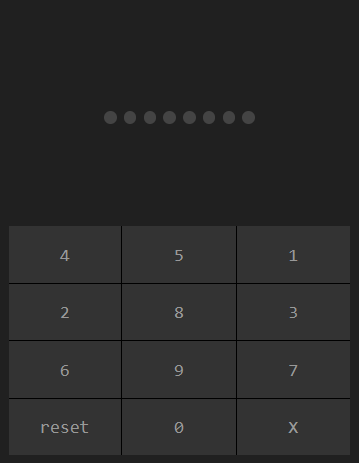
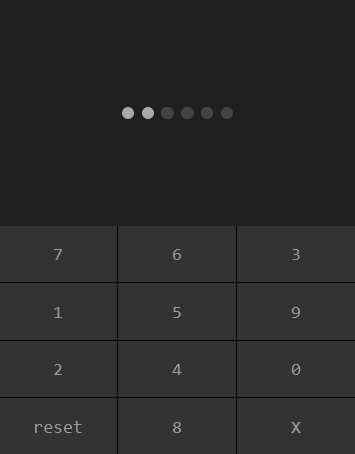
readme

diff --git a/index.html b/index.html
@@ -5,74 +5,75 @@
     <meta name="viewport" content="width=device-width, initial-scale=1, maximum-scale=1, user-scalable=no">
     <meta http-equiv="X-UA-Compatible" content="ie=edge">
     <title>Shuffle KEYPAD</title>
-    <link rel="stylesheet" href="style.css">
+    <link rel="stylesheet" href="./style.css">
 </head>
 <body>
-    <div class="keypad">
-        <div class="dots">
-            <div class="dbox"></div>
-        </div>
-        <div class="keys">
-            <div class="box"></div>
-        </div>
+
+<div class="keypad">
+    <div class="dots">
+        <div class="txt">PIN</div>
+        <div class="dbx"></div>
     </div>
-    <div class="test"> <button onclick="keypad.kset()">Shuffle</button> </div>
+    <div class="keys">
+        <div class="kbx"></div>
+    </div>
+</div>
+<div class="test"> <button onclick="keypad.kset()">Shuffle</button> </div>
 
-    <script>
-    const keypad = {
-        init:function(){
-            this.kset();
-        },
-        cnum: 0,
-        pnum: 6, /* 비번갯수 */
-        dset: function(n){ /* 점들 그리기 */
-            const dbox = document.querySelector(".dots");
-            let dot = '';
-            for(let d = 0; d < this.pnum; d++){
-                n > d ? ac = 'on' : ac = '';
-                dot += '<em class="dt '+ac+'"></em>';
-            }
-            dbox.innerHTML = dot;
-            if( this.cnum >= this.pnum){
-                this.cnum = this.pnum;
-                location.reload();
-            };
-            console.log(this.cnum);
-        },
-        kset: function(c){ /* 번호 그리기 */
-            const kbox = document.querySelector(".keys .box");
-            const norg = [0, 1, 2, 3, 4, 5, 6, 7, 8, 9];
-            const nums = [...norg];
-            const choc = e => nums.splice( Math.floor(Math.random() * nums.length) , 1); /* 랜덤 뽑기 */
-            let bts= '';
-            let bn = '';
-            let bx = '<button type="button" value="del" class="bt">X</button>';
-            let bc = '<button type="button" value="rst" class="bt">reset</button>';
-            for(let i of norg){
-                let pp = choc();
-                let bt = '<button type="button" value="' + pp + '" class="bt">' + pp + '</button>';
-                console.log(i, pp, nums);
-                i == 8 ? bn = bc : null;
-                i == 9 ? bn = bx : null;
-                bts += bt + bn;
-            }
-            kbox.innerHTML = bts;
-            this.dset(0);
-            this.cnum = 0;
-            document.querySelectorAll(".keys .bt").forEach( 
-                el => el.addEventListener("click", e => this.pset(el) )
-            );
-        },
-        pset: function(el){ /* 버튼클릭 */
-            el.value == 'del' ? this.cnum-- : this.cnum++ ;
-            el.value == 'rst' ? this.cnum = 0 : null ;
-            this.cnum < 0 ? this.cnum = 0 : null;
-            this.dset(this.cnum,el.value);
+<script>
+const keypad = {
+    init: function(){
+        this.kset();
+    },
+    cnum: 0,
+    pnum: 6, /* 비번갯수 */
+    dset: function(n){ /* 점들 그리기 */
+        const dbox = document.querySelector(".dots .dbx");
+        let dot = '';
+        for(let d = 0; d < this.pnum; d++){
+            n > d ? ac = 'on' : ac = '';
+            dot += '<em class="dt '+ac+'"></em>';
         }
-    }
-    keypad.init();
+        dbox.innerHTML = dot;
+        if( this.cnum >= this.pnum){
+            this.cnum = this.pnum;
+            this.pcom();
+        };
+        console.log(this.cnum);
+    },
+    kset: function(c){ /* 번호 그리기 */
+        const kbox = document.querySelector(".keys .kbx");
+        const norg = [0, 1, 2, 3, 4, 5, 6, 7, 8, 9];
+        const nums = [...norg];
+        const choc = e => nums.splice( Math.floor(Math.random() * nums.length) , 1); /* 랜덤 뽑기 */
+        let bts= '';
+        let bn = '';
+        let bx = '<button type="button" value="del" class="bt">Del</button>';
+        let bc = '<button type="button" value="rst" class="bt">Reset</button>';
+        for(let i of norg){
+            let pp = choc();
+            let bt = '<button type="button" value="' + pp + '" class="bt">' + pp + '</button>';
+            console.log(i, pp, nums);
+            i == 8 ? bn = bc : null;
+            i == 9 ? bn = bx : null;
+            bts += bt + bn;
+        }
+        kbox.innerHTML = bts;
+        this.dset(0);
+        this.cnum = 0;
+        kbox.querySelectorAll(".bt").forEach( bt => bt.addEventListener("click", e => this.pset(bt) ) );
+    },
+    pset: function(bt){ /* 버튼클릭 */
+        bt.value == 'del' ? this.cnum-- : this.cnum++ ;
+        bt.value == 'rst' ? this.cnum = 0 : null ;
+        this.cnum < 0 ? this.cnum = 0 : null;
+        this.dset(this.cnum, bt.value);
+    },
+    pcom: e => setTimeout( e => location.reload(), 500 )  /* 모두 입력 후 */
+};
+keypad.init();
 
-    </script>
+</script>
 
 </body>
 </html>

diff --git a/style.css b/style.css
@@ -2,15 +2,16 @@
 *{box-sizing: border-box; margin: 0; padding: 0;}
 html{}
 body{background-color: #111111;}
-.keypad{max-width: 420px;margin: auto;background: #202020;display: flex;flex-direction: column;}
-.keypad .dots{display: flex;justify-content: center;padding: 30% 0;max-height: 510px;}
-.keypad .dots .dt{width: 14px; height: 14px; border-radius: 10px; display: inline-flex;background: #444444; margin: 0 4px;}
-.keypad .dots .dt.on{background-color: #aaaaaa;}
+.keypad{max-width: 420px;margin: auto;background: #202020;}
+.keypad .dots{display: flex;justify-content: center;flex-direction: column;padding: 30% 0;max-height: 510px;}
+.keypad .dots .txt{text-align: center;color: #999; font-size:18px;margin-bottom: 20px;}
+.keypad .dots .dbx{ text-align: center;}
+.keypad .dots .dbx .dt{width: 14px; height: 14px; border-radius: 10px; display: inline-flex;background: #444444; margin: 0 4px;}
+.keypad .dots .dbx .dt.on{background-color: #aaaaaa;}
 .keypad .keys{background-color: #818181;padding: 0;margin: 0px 0px;position: relative;overflow: hidden;max-width: 500px;}
-.keypad .keys .box{display: flex; flex-wrap: wrap; margin: -1px -1px -1px -1px;}
-.keypad .keys .bt{width: calc(100% / 3 - 0px  );height: 4rem;margin: 0px 0px 0px 0px;background-color: #333333;border: 1px solid #000;border-width: 1px 1px 0px 0px;color: #999999;font-size: 20px;font-family: Consolas;transition: all 0.1s;}
-.keypad .keys .bt{-webkit-tap-highlight-color: #ffffff;}
-.keypad .keys .bt:active{background-color: #111111;font-size: 30px;}
+.keypad .keys .kbx{display: flex; flex-wrap: wrap; margin: -1px -1px -1px -1px;}
+.keypad .keys .kbx .bt{display: flex;width: calc(100% / 3 );height: 70px;background-color: #333333;border: 1px solid #000;border-width: 1px 1px 0px 0px;color: #999999;font-size: 20px;font-family: Consolas;transition: all 0.1s;justify-content: center;align-items: center;line-height: 1;}
+.keypad .keys .kbx .bt:active{background-color: #111111;font-size: 26px;}
 
 .test{margin: 20px 0 0 0;text-align: center;}
 .test button{padding: 10px; background-color: #333333; border: 1px solid #000000; color: #999999; }

diff --git a/README.md b/README.md
@@ -1,4 +1,6 @@
-## 간편비밀번호 6자리 입력 랜덤 포지션
+## 간편비밀번호 6자리 입력 랜덤 포지션 UI
+
+Demo : https://kimkee.github.io/keypad/
 
 ![](screenshot.png)
 ``` js
@@ -7,7 +9,7 @@ const keypad = {
 		this.kset();
 	},
 	cnum: 0,
-	pnum: 8, /* 비번갯수 */
+	pnum: 6, /* 비번갯수 */
 	dset: function(n){ /* 점들 그리기 */
 		const dbox = document.querySelector(".dots");
 		let dot = '';
@@ -18,7 +20,7 @@ const keypad = {
 		dbox.innerHTML = dot;
 		if( this.cnum >= this.pnum){
 			this.cnum = this.pnum;
-			location.reload();
+			this.pcom();
 		};
 		console.log(this.cnum);
 	},
@@ -29,8 +31,8 @@ const keypad = {
 		const choc = e => nums.splice( Math.floor(Math.random() * nums.length) , 1); /* 랜덤 뽑기 */
 		let bts= '';
 		let bn = '';
-		let bx = '<button type="button" value="del" class="bt">X</button>';
-		let bc = '<button type="button" value="rst" class="bt">reset</button>';
+		let bx = '<button type="button" value="del" class="bt">Del</button>';
+		let bc = '<button type="button" value="rst" class="bt">Reset</button>';
 		for(let i of norg){
 			let pp = choc();
 			let bt = '<button type="button" value="' + pp + '" class="bt">' + pp + '</button>';
@@ -42,16 +44,15 @@ const keypad = {
 		kbox.innerHTML = bts;
 		this.dset(0);
 		this.cnum = 0;
-		document.querySelectorAll(".keys .bt").forEach( 
-			el => el.addEventListener("click", e => this.pset(el) )
-		);
+		kbox.querySelectorAll(".bt").forEach( el => el.addEventListener("click", e => this.pset(el) ) );
 	},
 	pset: function(el){ /* 버튼클릭 */
 		el.value == 'del' ? this.cnum-- : this.cnum++ ;
 		el.value == 'rst' ? this.cnum = 0 : null ;
 		this.cnum < 0 ? this.cnum = 0 : null;
-		this.dset(this.cnum,el.value);
-	}
-}
+		this.dset(this.cnum, el.value);
+	},
+	pcom: e => location.reload() /* 모두 입력 후 */
+};
 keypad.init();
 ```
